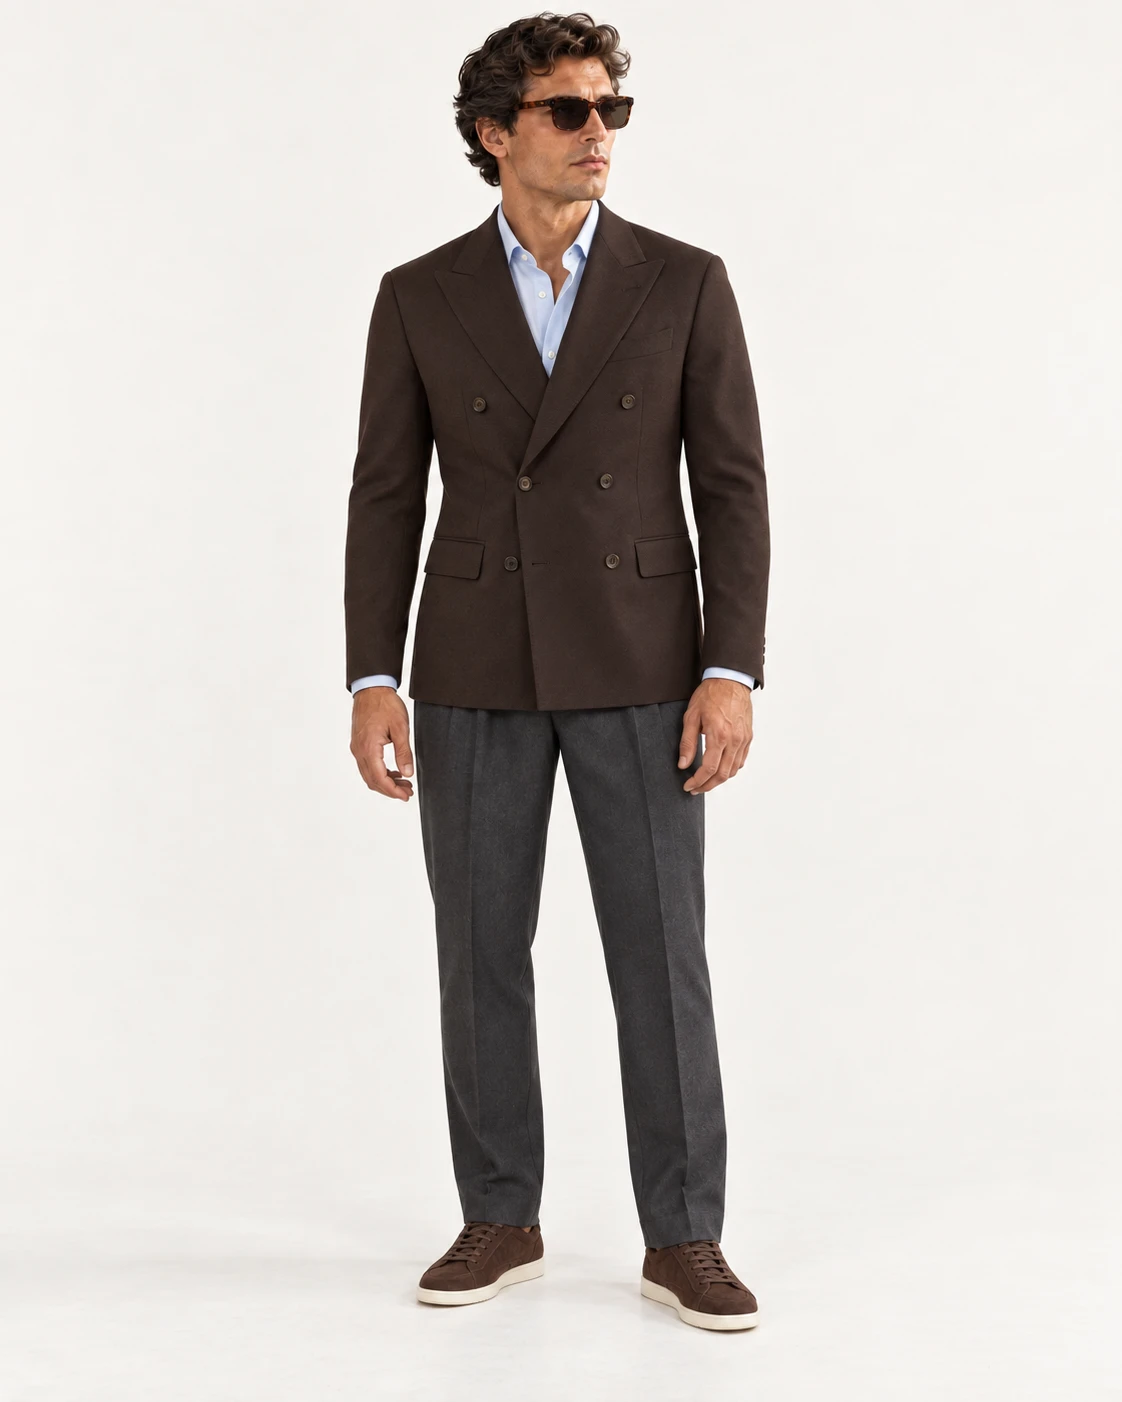
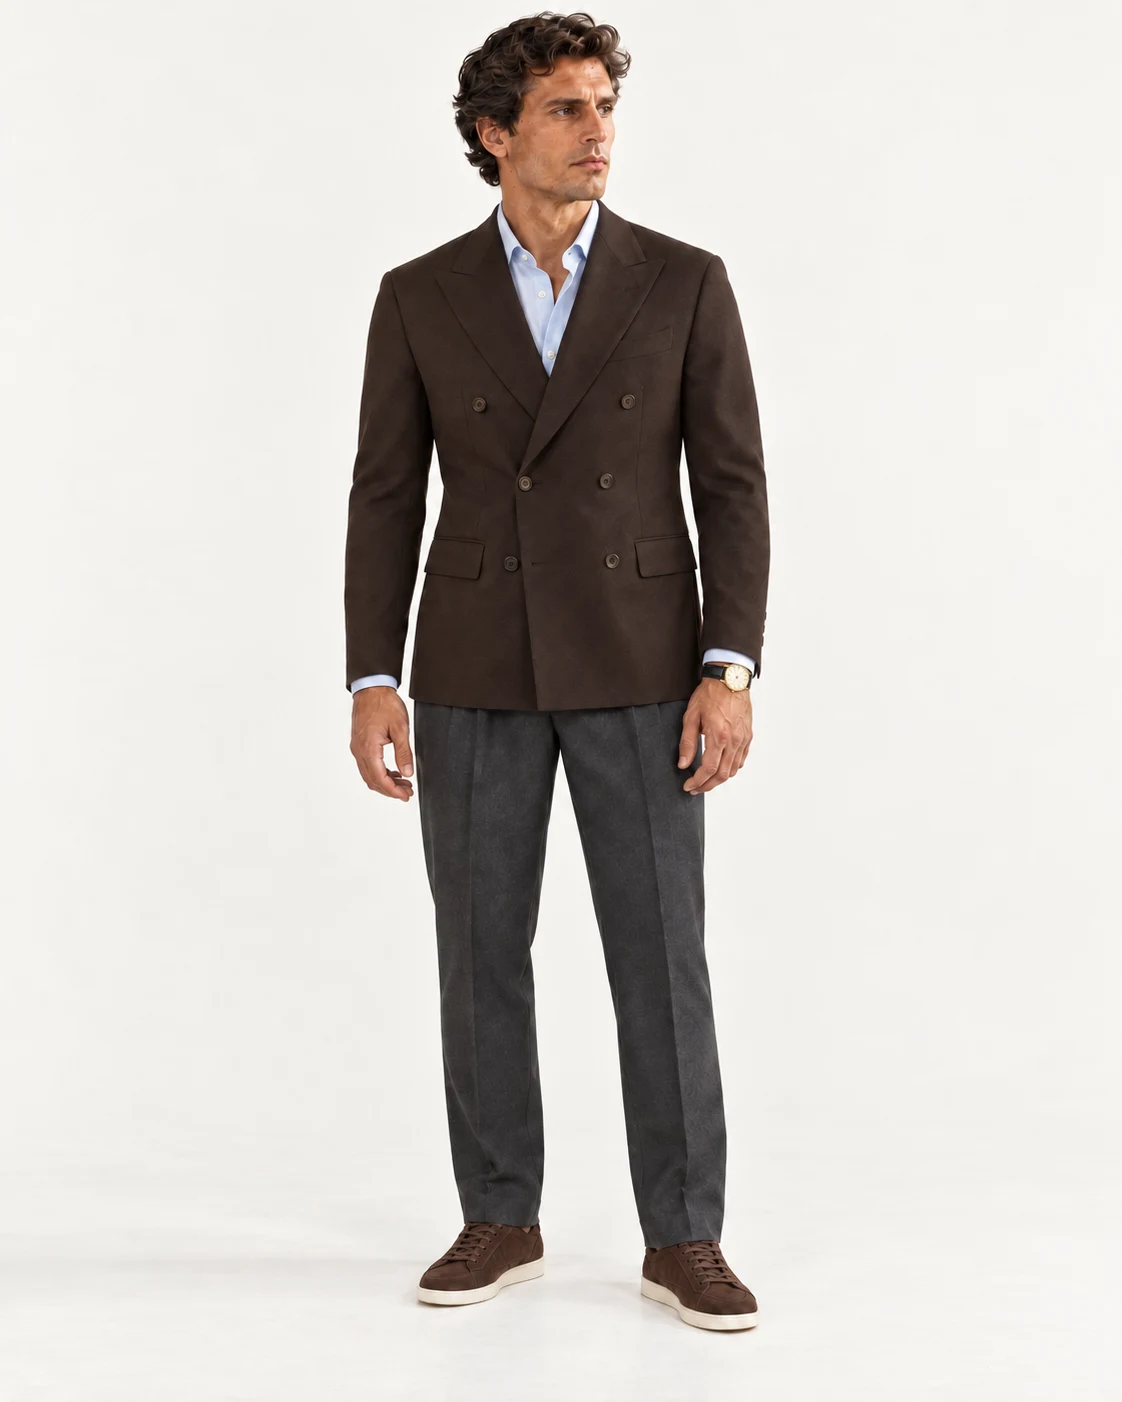
fix(shop): add matching watch choices to blazer demo

Changed region(s): [[0.4679, 0.0613, 0.5615, 0.1227], [0.6239, 0.4601, 0.6863, 0.4907], [0.4055, 0.092, 0.4367, 0.1227]]

diff --git a/app/shop/product/mappers/productSdkDemo.mapper.test.ts b/app/shop/product/mappers/productSdkDemo.mapper.test.ts
@@ -68,7 +68,11 @@ describe("prepared Shop PDP SDK demos", () => {
       expect(
         demo?.instantOutfitResults.every((result, index) =>
           result.image.endsWith(
-            `/prepared-results/${product.gender}/${product.id}/look-${String(index + 1).padStart(2, "0")}.webp`,
+            `/prepared-results/${product.gender}/${product.id}/look-${String(
+              product.id === "men-espresso-double-breasted-blazer"
+                ? [3, 1, 2, 4, 5][index]
+                : index + 1,
+            ).padStart(2, "0")}.webp`,
           ),
         ),
       ).toBe(true);
@@ -161,8 +165,9 @@ describe("prepared Shop PDP SDK demos", () => {
       "men-sand-straight-tailored-trouser",
       "men-chocolate-suede-court-sneaker",
       "men-oxblood-penny-loafer",
-      "men-tortoiseshell-acetate-sunglasses",
       "men-burgundy-leather-strap-watch",
+      "men-black-leather-gold-watch",
+      "men-navy-dial-brown-leather-watch",
     ]);
 
     expect(demo.instantOutfitLooks).toHaveLength(5);
@@ -174,6 +179,17 @@ describe("prepared Shop PDP SDK demos", () => {
       ).size,
     ).toBe(5);
 
+    expect(demo.instantOutfitLooks[0].items.find((item) => item.slot === "accessory")?.productId).toBe(
+      "men-burgundy-leather-strap-watch",
+    );
+    expect(new Set(demo.instantOutfitLooks.map((look) =>
+      look.items.find((item) => item.slot === "accessory")?.productId,
+    ))).toEqual(new Set([
+      "men-burgundy-leather-strap-watch",
+      "men-black-leather-gold-watch",
+      "men-navy-dial-brown-leather-watch",
+    ]));
+
     for (const look of demo.instantOutfitLooks) {
       expect(look.items.map((item) => item.slot)).toEqual([
         "bottom",
@@ -183,16 +199,17 @@ describe("prepared Shop PDP SDK demos", () => {
       for (const item of look.items) {
         for (const option of [item, ...(item.alternatives ?? [])]) {
           expect(expectedCompanions.has(option.productId)).toBe(true);
-          expect(option.image).toContain("/showcase-v4/men/");
-          expect(option.image).toMatch(/\/01-product-front\.webp$/);
+          expect(option.image).toMatch(/\.webp$/);
+          expect(existsSync(path.join(root, "public", option.image.replace(/^\//, "")))).toBe(true);
           expect(option.image).not.toContain("/arc-jacket-demo-v2/");
         }
       }
     }
 
     for (const [index, result] of demo.instantOutfitResults.entries()) {
+      const preparedLookNumber = [3, 1, 2, 4, 5][index];
       expect(result.image).toBe(
-        `/prepared-results/men/${product.id}/look-${String(index + 1).padStart(2, "0")}.webp`,
+        `/prepared-results/men/${product.id}/look-${String(preparedLookNumber).padStart(2, "0")}.webp`,
       );
       const response = await getPreparedResult(new Request("http://localhost"), {
         params: Promise.resolve({

diff --git a/app/shop/product/mappers/productOutfitLooks.mapper.ts b/app/shop/product/mappers/productOutfitLooks.mapper.ts
@@ -10,12 +10,15 @@ import {
   type ShowcaseProduct,
 } from "../../data/showcaseCatalog.data";
 import {
+  ESPRESSO_BLAZER_EXTRA_WATCHES,
   MEN_SDK_COMPANIONS,
   WOMEN_SDK_EXTRA_COMPANIONS,
   type ProductOutfitCompanion,
 } from "../data/productOutfitCompanions.data";
 
 const COMPANION_MASKS = ["0000", "0101", "1010", "0011", "1100"] as const;
+export const ESPRESSO_BLAZER_LOOK_ORDER = [2, 0, 1, 3, 4] as const;
+const ESPRESSO_BLAZER_WATCH_INDEX = [1, 2, 0, 0, 1] as const;
 const LOOK_LABELS = [
   "Quiet tailoring",
   "Soft contrast",
@@ -53,6 +56,14 @@ function companionsFor(
 
   if (pinnedProduct.gender === "men") {
     if (pinnedProduct.id === "men-espresso-double-breasted-blazer") {
+      if (slot === "accessory") {
+        const wornWatch = showcaseCompanions.find((candidate) =>
+          candidate.productId === "men-burgundy-leather-strap-watch",
+        );
+        return wornWatch
+          ? [wornWatch, ...ESPRESSO_BLAZER_EXTRA_WATCHES]
+          : ESPRESSO_BLAZER_EXTRA_WATCHES;
+      }
       return showcaseCompanions;
     }
     const preparedCompanions = MEN_SDK_COMPANIONS[slot] ?? [];
@@ -97,7 +108,7 @@ export function getProductInstantOutfitLooks(
       slot !== pinnedProduct.slot &&
       !(pinnedProduct.gender === "men" && slot === "bag"),
   );
-  return COMPANION_MASKS.map((mask, lookIndex) => {
+  const looks = COMPANION_MASKS.map((mask, lookIndex) => {
     const selectedBySlot = new Map<
       ShowcaseProduct["slot"],
       { selected: ProductOutfitCompanion; candidates: ProductOutfitCompanion[] }
@@ -105,7 +116,9 @@ export function getProductInstantOutfitLooks(
     missingSlots.forEach((slot, slotIndex) => {
       const candidates = companionsFor(pinnedProduct, slot);
       const choice =
-        candidates.length >= COMPANION_MASKS.length
+        pinnedProduct.id === "men-espresso-double-breasted-blazer" && slot === "accessory"
+          ? ESPRESSO_BLAZER_WATCH_INDEX[lookIndex]
+          : candidates.length >= COMPANION_MASKS.length
           ? lookIndex
           : Number(mask[slotIndex] ?? "0");
       selectedBySlot.set(slot, {
@@ -125,4 +138,7 @@ export function getProductInstantOutfitLooks(
       }),
     };
   });
+  return pinnedProduct.id === "men-espresso-double-breasted-blazer"
+    ? ESPRESSO_BLAZER_LOOK_ORDER.map((index) => looks[index])
+    : looks;
 }

diff --git a/app/shop/product/data/productOutfitCompanions.data.ts b/app/shop/product/data/productOutfitCompanions.data.ts
@@ -13,6 +13,28 @@ export type ProductOutfitCompanion = {
 const WOMEN_SDK_ASSET_ROOT =
   "/media/global-shop/sdk-companions-v1/women";
 
+const MEN_WATCH_ASSET_ROOT =
+  "/media/global-shop/sdk-companions-v1/men/accessory";
+
+export const ESPRESSO_BLAZER_EXTRA_WATCHES: ProductOutfitCompanion[] = [
+  {
+    slot: "accessory",
+    productId: "men-black-leather-gold-watch",
+    title: "Black Leather & Gold Watch",
+    image: `${MEN_WATCH_ASSET_ROOT}/black-leather-gold-watch.webp`,
+    color: "Black and gold",
+    recommendedSize: "One size",
+  },
+  {
+    slot: "accessory",
+    productId: "men-navy-dial-brown-leather-watch",
+    title: "Navy-Dial Brown Leather Watch",
+    image: `${MEN_WATCH_ASSET_ROOT}/navy-dial-brown-leather-watch.webp`,
+    color: "Navy and dark brown",
+    recommendedSize: "One size",
+  },
+];
+
 /**
  * PDP companion pieces for prepared women demos. The two showcase products
  * for each slot are added by the mapper before these three, producing five

diff --git a/app/shop/product/mappers/productSdkDemo.mapper.ts b/app/shop/product/mappers/productSdkDemo.mapper.ts
@@ -23,7 +23,10 @@ import {
   showcasePreparedResultAsset,
 } from "../data/productSdkDemo.data";
 import type { ProductDetailViewModel } from "../types/productDetail.types";
-import { getProductInstantOutfitLooks } from "./productOutfitLooks.mapper";
+import {
+  ESPRESSO_BLAZER_LOOK_ORDER,
+  getProductInstantOutfitLooks,
+} from "./productOutfitLooks.mapper";
 
 export type ProductSdkDemo = {
   presetProfile: PreparedDemoProfile;
@@ -250,7 +253,12 @@ export function getProductSdkDemo(
       product,
       preparedLooks,
       showcaseProduct
-        ? (index) => showcasePreparedResultAsset(showcaseProduct, index)
+        ? (index) => showcasePreparedResultAsset(
+            showcaseProduct,
+            showcaseProduct.id === "men-espresso-double-breasted-blazer"
+              ? ESPRESSO_BLAZER_LOOK_ORDER[index]
+              : index,
+          )
         : isDailyEdit
           ? (index) => dailyEditPreparedResultAsset(product.id, index)
         : undefined,
